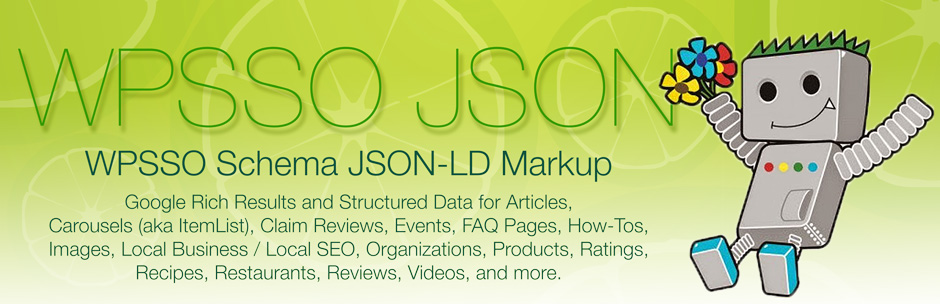
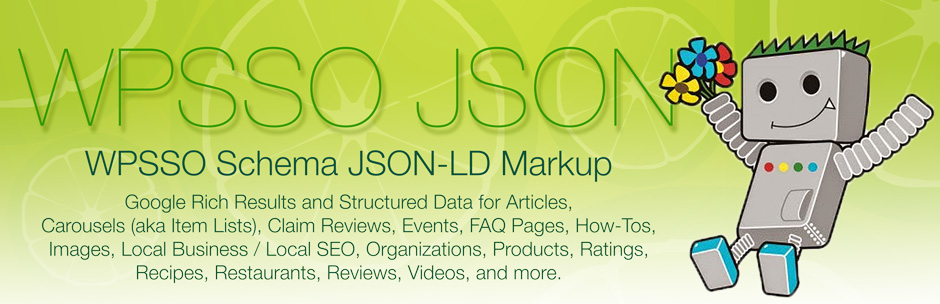
non-essential support files (documentation and assets)

Changed region(s): [[0.0309, 0.7105, 0.7096, 0.7993]]

diff --git a/index.html b/index.html
@@ -46,7 +46,7 @@
 
 <p><strong>Supports over 495 different Schema types and sub-types:</strong></p>
 
-<p>Google Rich Results and Structured Data for Articles, Carousels (aka ItemList), Claim Reviews, Events, FAQ Pages, How-Tos, Images, Local Business / Local SEO, Organizations, Products, Ratings, Recipes, Restaurants, Reviews, Videos, and more.</p>
+<p>Google Rich Results and Structured Data for Articles, Carousels (aka Item Lists), Claim Reviews, Events, FAQ Pages, How-Tos, Images, Local Business / Local SEO, Organizations, Products, Ratings, Recipes, Restaurants, Reviews, Videos, and more.</p>
 
 <p>Uses filters to dynamically (and automatically) create Schema markup, allowing the WPSSO Schema JSON-LD Markup add-on to provide an almost unlimited number of Schema types, children sub-types, and properties inherited from each parent type (for example, Restaurant is a sub-type of Food Establishment, which is a sub-type of Local Business, which is sub-type of <em>both</em> Organization <em>and</em> Place, which are both sub-types of Thing).</p>
 
